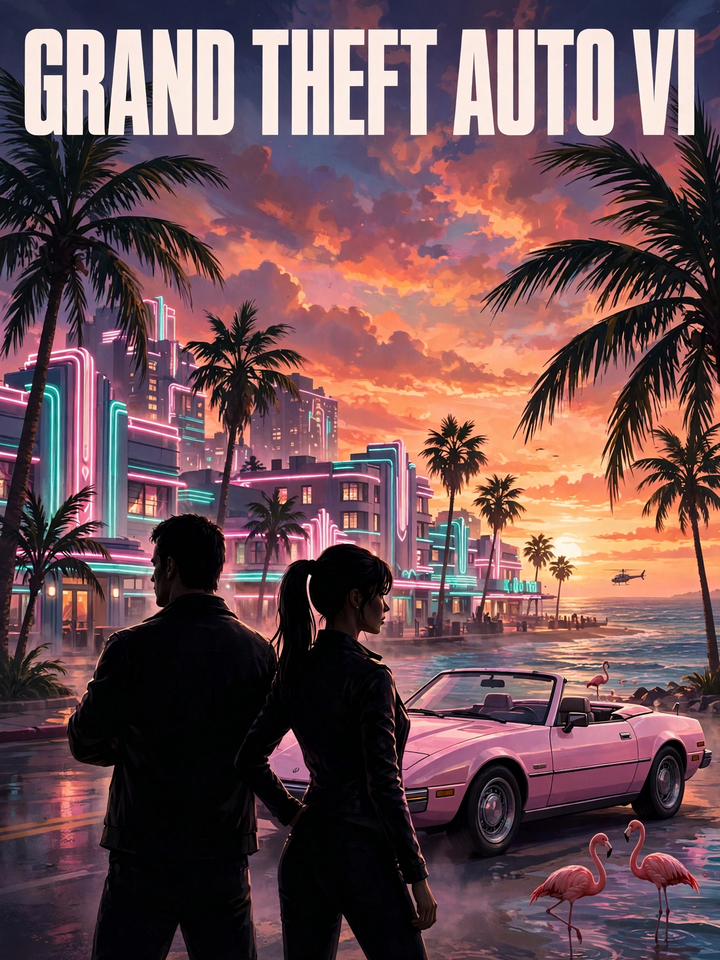
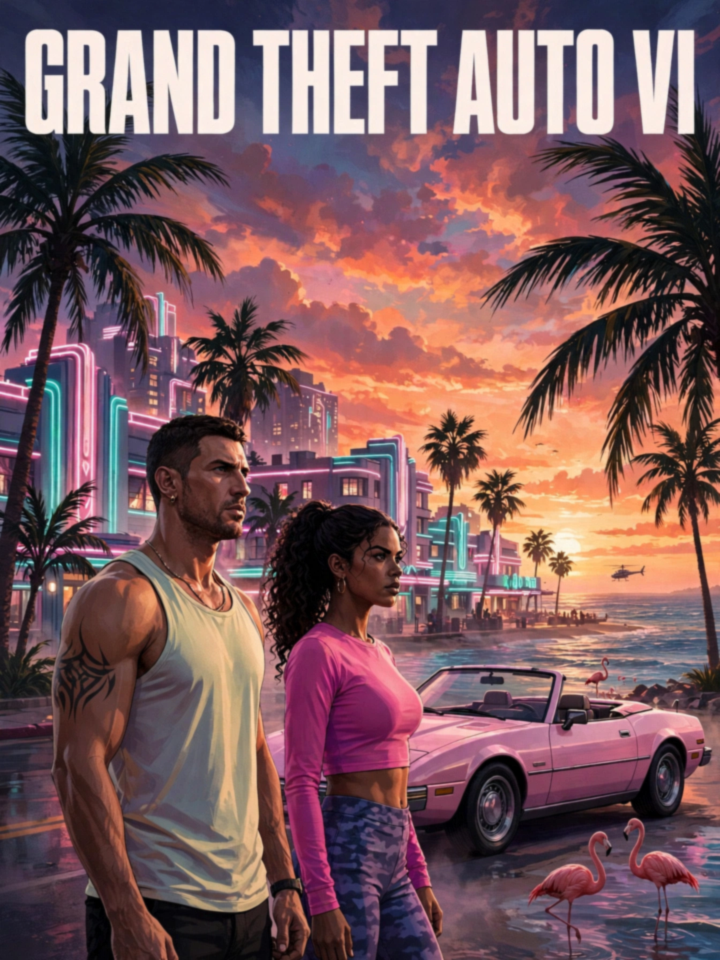
GTA VI cover art: leads redrawn as Jason Duval and Lucia Caminos per official character art

diff --git a/README.md b/README.md
@@ -4,7 +4,7 @@
 [![rank](https://make.fun/badge/gta6-cover-art-01/zdoo8866-design/makefun-gta6-cover-art/rank.svg)](https://make.fun/bounty/gta6-cover-art-01/leaderboard?utm_source=github&utm_medium=readme&utm_campaign=gta6-cover-art-01)
 [![reward](https://make.fun/badge/gta6-cover-art-01/zdoo8866-design/makefun-gta6-cover-art/reward.svg)](https://make.fun/bounty/gta6-cover-art-01?utm_source=github&utm_medium=readme&utm_campaign=gta6-cover-art-01)
 
-An original cover for Grand Theft Auto VI: its two leads as dark silhouettes seen from behind, looking out over a neon Vice City beach strip at sunset — art-deco hotels in pink and teal, a pastel-pink convertible, flamingos in the shallows and a helicopter over the water, under the game's name in plain block letters.
+An original cover for Grand Theft Auto VI: its two leads, Jason Duval and Lucia Caminos — drawn to their official character designs, Jason in a pale tank top with chain necklace and arm tattoo, Lucia in a pink long-sleeve crop top and camo leggings with her dark curls in a high ponytail — stand in the foreground looking out over a neon Vice City beach strip at sunset: art-deco hotels in pink and teal, a pastel-pink convertible, flamingos in the shallows and a helicopter over the water, under the game's name in plain block letters.
 
 ## Run it
 
@@ -12,11 +12,11 @@ An original cover for Grand Theft Auto VI: its two leads as dark silhouettes see
 mkdir -p out && MAKEFUN_OUTPUT_DIR=out node main.ts
 ```
 
-The program copies `entry.png` (720×960 PNG, 1,048,317 bytes) to the output directory and verifies the copy is complete; it writes the same bytes on every run.
+The program copies `entry.png` (720×960 PNG, 1,001,422 bytes) to the output directory and verifies the copy is complete; it writes the same bytes on every run.
 
 ## Design note
 
-One scene, read at a glance: the pair from behind, the city they are about to own spread out in front of them. The composition is original — an over-the-shoulder vista rather than the official cover's panel collage — and every classic ingredient is drawn fresh for this cover: the sunset palette, the neon deco strip, the palms, the convertible, the flamingos. The title is set in plain block capitals, no logo artwork.
+One scene, read at a glance: the pair in the foreground, the city they are about to own spread out in front of them. The composition is original — a wide vista rather than the official cover's panel collage — and every classic ingredient is drawn fresh for this cover: the sunset palette, the neon deco strip, the palms, the convertible, the flamingos. The leads' faces, hair and outfits follow Rockstar's official character art for Jason and Lucia. The title is set in plain block capitals, no logo artwork.
 
 ---
 
